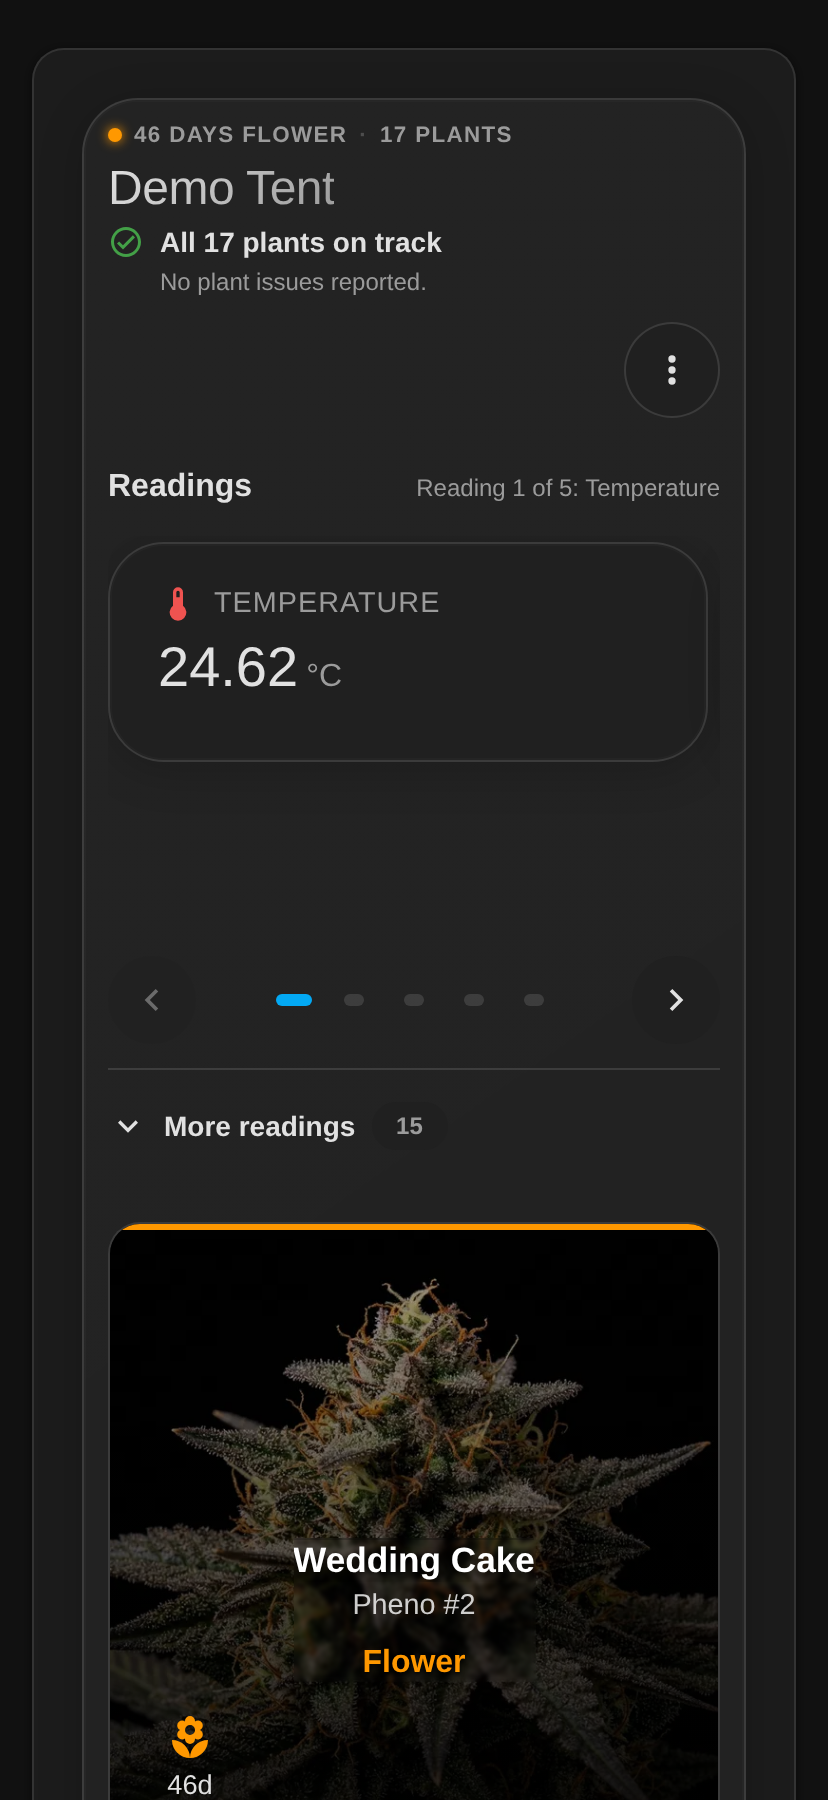
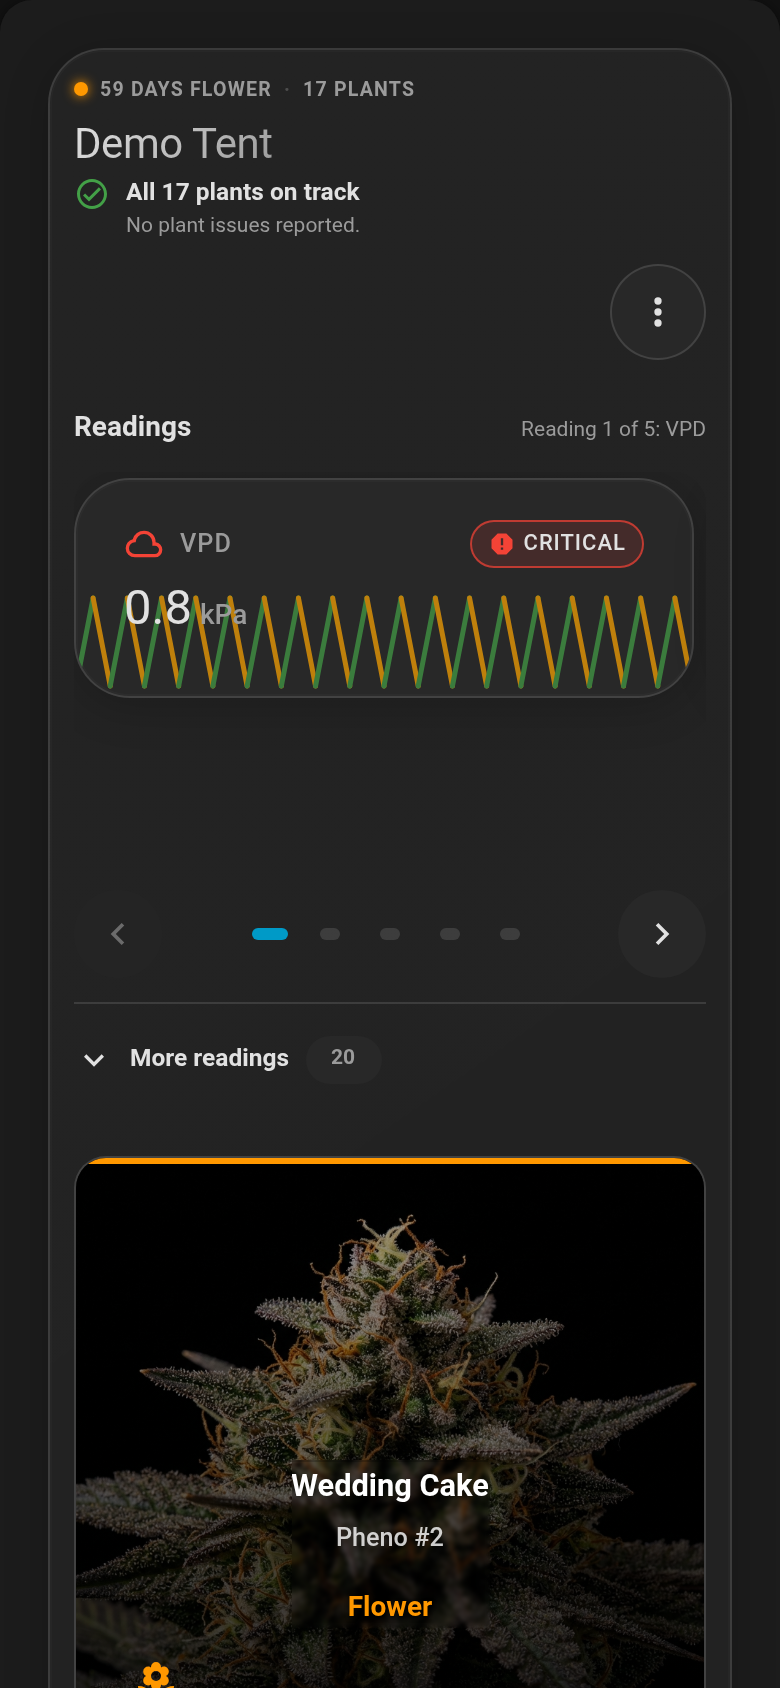
docs(readme): re-verify the screenshots against the declared Demo Tent
The set was captured on 2026-08-25, before Demo Tent became a declared
capability profile. That change gave the growspace its own equipment —
free-running numeric devices instead of borrowed binary switches, and a grow
light that is a simulated `number` tracking a photoperiod — so the surfaces that
show equipment were showing a demo that no longer exists in that shape.

Checked all six against the live instance, and re-captured the three that had
drifted:

- overview: the header carried no equipment band at all, and the sparklines had
  the dead zone that borrowed telemetry left in them. Both are now the profile's
  own devices, free-running.
- crop-steering: read "Last cycle — · Next —", the tell of a growspace with no
  irrigation of its own. It now runs, and the nav has gained the Library section
  the card added since.
- mobile: was captured at a 414x900 viewport rather than the 390x844 the hub
  convention specifies, and its carousel counted 15 further readings where the
  profile's equipment now gives 20.

The other three are left alone rather than churned for uniformity. plant-dialog,
strain-library-grid and logbook photograph surfaces the rewiring does not reach,
and re-shooting them would only have moved a day counter — and, at the
documented 1280x720, would have cost the notes, the second strain row and the
watering history their captions are about.

The new dialog capture is therefore shorter than the one it replaces: the old
[…]

diff --git a/video/src/WalkthroughComposition.tsx b/video/src/WalkthroughComposition.tsx
@@ -4,11 +4,11 @@ import React from 'react';
 
 // Require images via Webpack/Remotion handling to ensure bundle inclusion
 // In a real scenario we might dynamic import, but static require is reliable for Remotion
-const mainCard = require('../../assets/screenshots/main-card.png');
-const plantOverview = require('../../assets/screenshots/plant-overview-tab.png');
-const timeline = require('../../assets/screenshots/plant-timeline-tab.png');
-const library = require('../../assets/screenshots/strain-library.png');
-const mobile = require('../../assets/screenshots/mobile-view.png');
+const mainCard = require('../../assets/screenshots/overview.png');
+const plantOverview = require('../../assets/screenshots/plant-dialog.png');
+const cropSteering = require('../../assets/screenshots/crop-steering.png');
+const library = require('../../assets/screenshots/strain-library-grid.png');
+const mobile = require('../../assets/screenshots/mobile.png');
 
 export const WalkthroughComposition: React.FC = () => {
     const { fps } = useVideoConfig(); // use `fps`
@@ -28,9 +28,9 @@ export const WalkthroughComposition: React.FC = () => {
             duration: 150
         },
         {
-            image: timeline,
-            title: "Growth Timeline",
-            description: "Visualize lifecycle progress from seed to harvest.",
+            image: cropSteering,
+            title: "Crop Steering",
+            description: "Phase-driven irrigation computed from live VWC targets.",
             duration: 150
         },
         {

diff --git a/README.md b/README.md
@@ -3,8 +3,9 @@
 A premium, feature-rich **Home Assistant Lovelace custom card** designed for the modern grower. Manage multiple growspaces, track complex plant lifecycles, and leverage AI to optimize your environment—all from a sleek, glassmorphism-inspired interface.
 
 ![Growspace Manager Card](assets/screenshots/overview.png)
-_Unified view: plant grid with per-stage imagery and day counters, environmental
-sparklines, and the live crop-steering phase._
+_Unified view: the growspace's own equipment across the header, environmental
+sparklines beneath it, the live crop-steering phase, and a plant grid with
+per-stage imagery and day counters._
 
 [**Try the live demo →**](https://Venosta-web.github.io/lovelace-growspace-manager-card/demo/)
 
